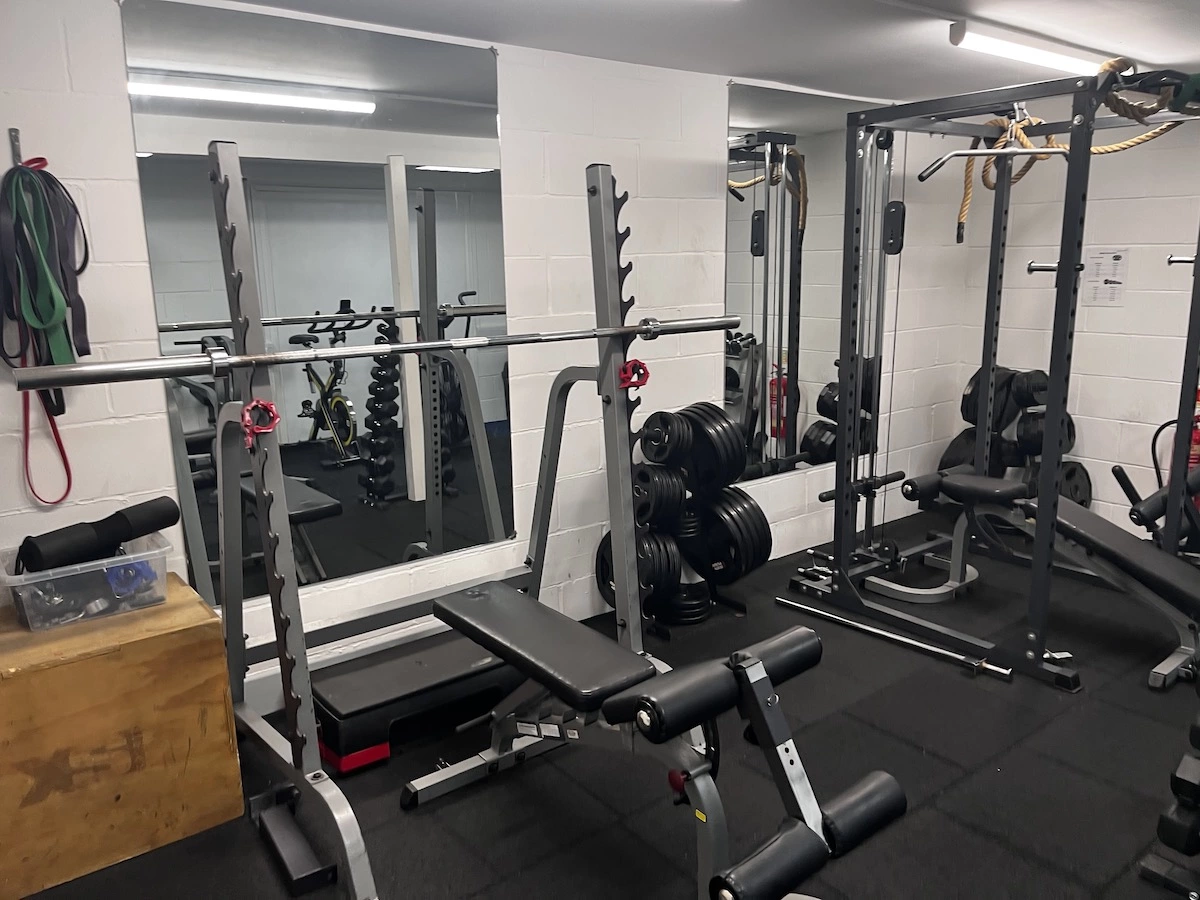
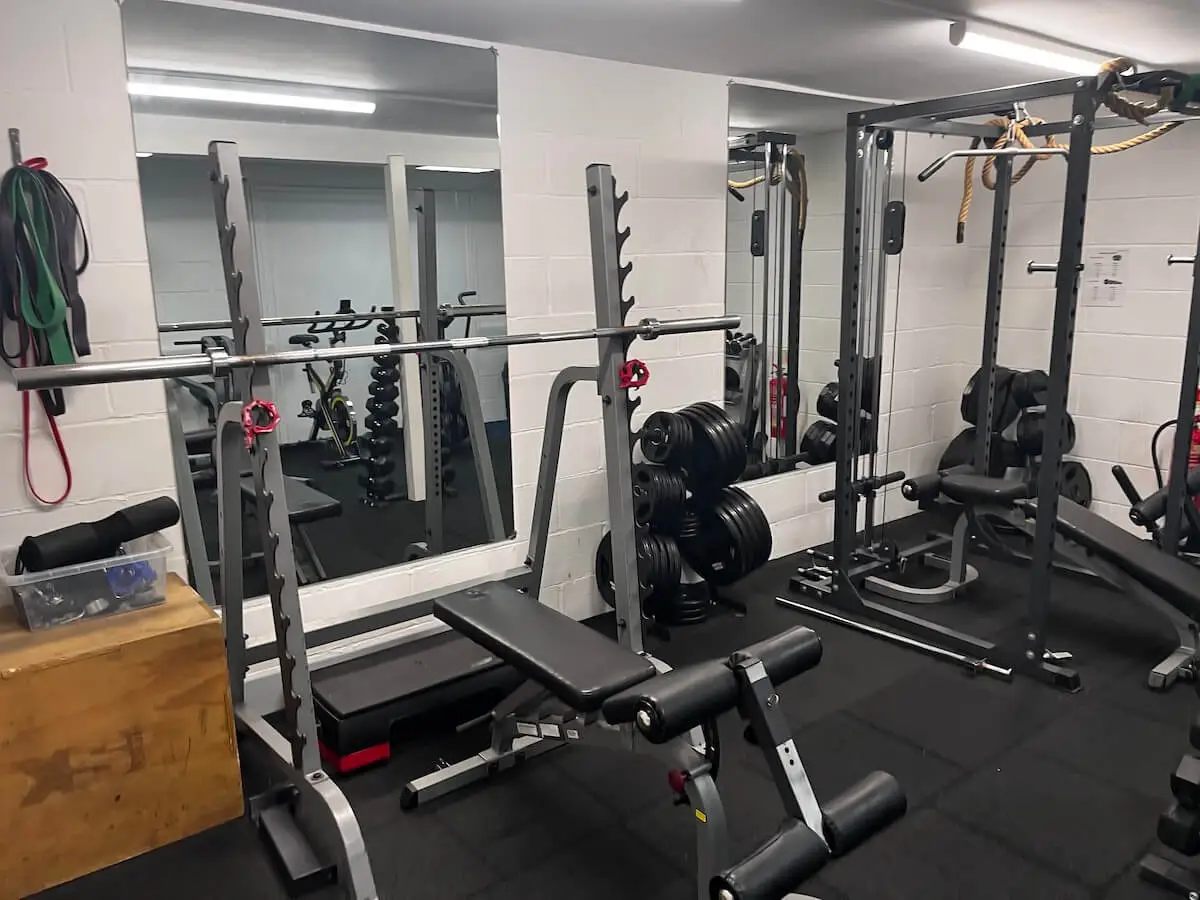
Optimised the images

Changed region(s): [[0.9867, 0.9956, 1.0, 1.0]]

diff --git a/gym.html b/gym.html
@@ -18,7 +18,7 @@
         <nav class="navbar navbar-expand-md navbar-light fixed-top shadow p-3 mb-4 bg-white">
           <div class="container-fluid no-padding">
             <!--The image used in the nav bar has been supplied by Balanced Training-->
-            <a class="navbar-brand" href="index.html"><img class="brand-logo" src="assets/images/logo_blue.png" alt="Balanced Training Logo"></a>
+            <a class="navbar-brand" href="index.html"><img class="brand-logo" src="assets/images/logo_blue.webp" alt="Balanced Training Logo"></a>
             <button class="navbar-toggler" type="button" data-bs-toggle="collapse" data-bs-target="#navbarNav" data-target="#navbarSupportedContent" aria-controls="navbarNav" aria-expanded="false" aria-label="Toggle navigation">
               <span class="navbar-toggler-icon"></span>
             </button>
@@ -79,7 +79,7 @@
           <h2 class="accordion-header" id="headingOne">
             <!--The image used has been supplied by Balanced Training-->
             <button class="accordion-button collapsed" type="button" data-bs-toggle="collapse" data-bs-target="#collapseOne" aria-expanded="false" aria-controls="collapseOne">
-               Personal Training <img class="icon" src="assets/images/pt-icon-small.png" alt="Personal training icon"> <i class="bi bi-chevron-down chev-down"></i> <i class="bi bi-chevron-up chev-up"></i>
+               Personal Training <img class="icon" src="assets/images/pt-icon-small.webp" alt="Personal training icon"> <i class="bi bi-chevron-down chev-down"></i> <i class="bi bi-chevron-up chev-up"></i>
             </button>
           </h2>
           <div id="collapseOne" class="accordion-collapse collapse" aria-labelledby="headingOne">
@@ -96,7 +96,7 @@
                   </div>
                   <div class="col-12 col-md-6">
                   <!--The image used has been supplied by Balanced Training-->
-                  <img class="acc-pt-pic" src="assets/images/gym-front.JPG" alt="Front of gym">
+                  <img class="acc-pt-pic" src="assets/images/gym-front.webp" alt="Front of gym">
                   </div>
                 </div>
                 <!--Tabs for PT-->
@@ -137,7 +137,7 @@
                       
                           <div class="col-11 col-md-5 align-items-center">
                             <!--The image used has been supplied by Balanced Training-->
-                            <img class="acc-tab-pic" src="assets/images/sarah-pt.jpg" alt="Sarah personal training">
+                            <img class="acc-tab-pic" src="assets/images/sarah-pt.webp" alt="Sarah personal training">
                           </div>
                         </div>
                     </div>
@@ -154,7 +154,7 @@
                           </div>
                           <div class="col-11 col-sm-5 no-padding">
                             <!--The image used has been supplied by Balanced Training-->
-                            <img class="acc-tab-pic" src="assets/images/outdoor-pt.jpg" alt="Outdoor training picture">
+                            <img class="acc-tab-pic" src="assets/images/outdoor-pt.webp" alt="Outdoor training picture">
                           </div>
                        </div>
                       </div>
@@ -170,7 +170,7 @@
                           </div>
                           <div class="col-11 col-sm-5 no-padding">
                             <!--The image used has been supplied by Balanced Training-->
-                            <img class="acc-tab-pic" src="assets/images/online-pt.png" alt="Online screenshot">
+                            <img class="acc-tab-pic" src="assets/images/online-pt.webp" alt="Online screenshot">
                           </div>
                        </div>
                       </div>
@@ -186,7 +186,7 @@
                           </div>
                           <div class="col-11 col-sm-5 no-padding">
                             <!--The image used has been supplied by Balanced Training-->
-                            <img class="acc-tab-pic" src="assets/images/tab-pic-prog.png" alt="Programme picture">
+                            <img class="acc-tab-pic" src="assets/images/tab-pic-prog.webp" alt="Programme picture">
                           </div>
                        </div>
                       </div>
@@ -204,7 +204,7 @@
           <h2 class="accordion-header" id="headingTwo">
             <!--The image used has been supplied by Balanced Training-->
             <button class="accordion-button collapsed" type="button" data-bs-toggle="collapse" data-bs-target="#collapseTwo" aria-expanded="false" aria-controls="collapseTwo">
-              Sports Massage  <img class="icon" src="assets/images/sm-icon-small.png" alt="Sports massage icon"> <i class="bi bi-chevron-down chev-down"></i> <i class="bi bi-chevron-up chev-up"></i>
+              Sports Massage  <img class="icon" src="assets/images/sm-icon-small.webp" alt="Sports massage icon"> <i class="bi bi-chevron-down chev-down"></i> <i class="bi bi-chevron-up chev-up"></i>
             </button>
           </h2>
           <div id="collapseTwo" class="accordion-collapse collapse" aria-labelledby="headingTwo">
@@ -225,7 +225,7 @@
                   </div>
                   <div class="col-12 col-md-6">
                     <!--The image used has been supplied by Balanced Training-->
-                    <img class="acc-pt-pic" src="assets/images/sarah-sm.jpeg" alt="Sarah delivering sports massage">
+                    <img class="acc-pt-pic" src="assets/images/sarah-sm.webp" alt="Sarah delivering sports massage">
                   </div>
                 </div>
               </div>
@@ -237,7 +237,7 @@
           <h2 class="accordion-header" id="headingThree">
             <!--The image used has been supplied by Balanced Training-->
             <button class="accordion-button collapsed" type="button" data-bs-toggle="collapse" data-bs-target="#collapseThree" aria-expanded="false" aria-controls="collapseThree">
-              Memberships <img class="icon" src="assets/images/gm-icon-small.png" alt="General membership icon"> <i class="bi bi-chevron-down chev-down"></i> <i class="bi bi-chevron-up chev-up"></i>
+              Memberships <img class="icon" src="assets/images/gm-icon-small.webp" alt="General membership icon"> <i class="bi bi-chevron-down chev-down"></i> <i class="bi bi-chevron-up chev-up"></i>
             </button>
           </h2>
           <div id="collapseThree" class="accordion-collapse collapse" aria-labelledby="headingThree">

diff --git a/courses.html b/courses.html
@@ -18,7 +18,7 @@
         <nav class="navbar navbar-expand-md navbar-light fixed-top shadow p-3 mb-4 bg-white">
           <div class="container-fluid no-padding">
             <!--The image used has been supplied by Balanced Training-->
-            <a class="navbar-brand" href="index.html"><img class="brand-logo" src="assets/images/logo_blue.png" alt="Balanced Training logo"></a>
+            <a class="navbar-brand" href="index.html"><img class="brand-logo" src="assets/images/logo_blue.webp" alt="Balanced Training logo"></a>
             <button class="navbar-toggler" type="button" data-bs-toggle="collapse" data-bs-target="#navbarNav" data-target="#navbarSupportedContent" aria-controls="navbarNav" aria-expanded="false" aria-label="Toggle navigation">
               <span class="navbar-toggler-icon"></span>
             </button>
@@ -79,7 +79,7 @@
           <h2 class="accordion-header" id="headingOne">
             <!--The image used has been supplied by Balanced Training-->
             <button class="accordion-button collapsed" type="button" data-bs-toggle="collapse" data-bs-target="#collapseOne" aria-expanded="false" aria-controls="collapseOne">
-              Personal Training Courses <img class="icon" src="assets/images/pt-icon-small.png" alt="Smaller Personal training icon">  <i class="bi bi-chevron-down chev-down"></i> <i class="bi bi-chevron-up chev-up"></i>
+              Personal Training Courses <img class="icon" src="assets/images/pt-icon-small.webp" alt="Smaller Personal training icon">  <i class="bi bi-chevron-down chev-down"></i> <i class="bi bi-chevron-up chev-up"></i>
             </button>
           </h2>
           <div id="collapseOne" class="accordion-collapse collapse" aria-labelledby="headingOne">
@@ -100,7 +100,7 @@
                   </div>
                   <div class="col-12 col-md-4">
                     <!--The image used has been supplied by Balanced Training-->
-                  <img class="acc-pt-pic" src="assets/images/pt-icon-cropped.png" alt="Cropped Personal training icon">
+                  <img class="acc-pt-pic" src="assets/images/pt-icon-cropped.webp" alt="Cropped Personal training icon">
                   </div>
                 </div>
                 <!--Tabs for PT Courses-->
@@ -193,7 +193,7 @@
           <h2 class="accordion-header" id="headingTwo">
             <!--The image used has been supplied by Balanced Training-->
             <button class="accordion-button collapsed" type="button" data-bs-toggle="collapse" data-bs-target="#collapseTwo" aria-expanded="false" aria-controls="collapseTwo">
-              Sports Massage Courses <img class="icon" src="assets/images/sm-icon-small.png" alt="Small Sports massage icon">  <i class="bi bi-chevron-down chev-down"></i> <i class="bi bi-chevron-up chev-up"></i>
+              Sports Massage Courses <img class="icon" src="assets/images/sm-icon-small.webp" alt="Small Sports massage icon">  <i class="bi bi-chevron-down chev-down"></i> <i class="bi bi-chevron-up chev-up"></i>
             </button>
           </h2>
           <div id="collapseTwo" class="accordion-collapse collapse" aria-labelledby="headingTwo">
@@ -215,7 +215,7 @@
                   </div>
                   <div class="col-12 col-md-6">
                     <!--The image used has been supplied by Balanced Training-->
-                    <img class="acc-pt-pic" src="assets/images/sm-icon-cropped.png" alt="Sports massage icon">
+                    <img class="acc-pt-pic" src="assets/images/sm-icon-cropped.webp" alt="Sports massage icon">
                   </div>
                 </div>
                 <div class="top-tabs">
@@ -272,7 +272,7 @@
           <h2 class="accordion-header" id="headingThree">
             <!--The image used has been supplied by Balanced Training-->
             <button class="accordion-button collapsed" type="button" data-bs-toggle="collapse" data-bs-target="#collapseThree" aria-expanded="false" aria-controls="collapseThree">
-              First Aid Courses <img class="icon" src="assets/images/first-aid-cropped.png" alt="First aid picture">  <i class="bi bi-chevron-down chev-down"></i> <i class="bi bi-chevron-up chev-up"></i>
+              First Aid Courses <img class="icon" src="assets/images/first-aid-cropped.webp" alt="First aid picture">  <i class="bi bi-chevron-down chev-down"></i> <i class="bi bi-chevron-up chev-up"></i>
             </button>
           </h2>
           <div id="collapseThree" class="accordion-collapse collapse" aria-labelledby="headingThree">
@@ -299,7 +299,7 @@
                   </div>
                   <div class="col-12 col-md-6">
                     <!--The image used has been supplied by Balanced Training-->
-                    <img class="acc-pt-pic" src="assets/images/first-aid-full.png" alt="Full First Aid picture">
+                    <img class="acc-pt-pic" src="assets/images/first-aid-full.webp" alt="Full First Aid picture">
                   </div>
                 </div>
                 </div>

diff --git a/contact.html b/contact.html
@@ -99,6 +99,7 @@
     <form id="form" class="form" action="https://codegreg1.github.io/milestone_1_greg_goodrem/thank-you.html">
       <div class="container-fluid">
         <div class="row">
+          <br>
           <h1 class="contact-top">Get in contact!</h1>
           <h2>If you'd like to find out more about <br> any of our services please fill out the form below.</h2>
         </div>
@@ -130,6 +131,39 @@
             </div>
     </form>
   </section>
+  <footer>
+    <div class="row footer bg-dark justify-content-center">
+      <!--Footer Left-->
+      <div class="col-6 col-md-7 footer-left">
+      <a id="footer-left" class="footer-left hover" href="https://maps.google.com/maps/dir//Balanced+Training+Unit+A3,+Seedbed+Business+Centre+Vanguard+Way+Southend-on-Sea+SS3+9QY/@51.534883,0.7957074,16z/data=!4m5!4m4!1m0!1m2!1m1!1s0x47d927b7c1b1e26d:0x8d658dbbe5f7866" target="_blank">
+        <p>Unit A3</p> 
+        <p class="word-wrap">Seedbed Business Centre,</p>
+        <p>Vanguard Way,</p>
+        <p>Shoeburyness,</p>
+        <p>SS3 0JB</p></a>
+        <br>
+        <p><i class="bi bi-telephone-fill"></i><a class="footer-left hover" href="Tel:01702382390"> 01702 382390</a></p>
+        
+
+      </div>
+      <!--Footer Right-->
+      <div class="col-5 col-md-4 footer-right">
+        <div class="footer-text-right col-6">Follow us on</div>
+        <div class="social-bottom row">
+          <div class="col-2 col-padding">
+            <a class="icon-link" href="https://facebook.com/BalancedPTS/" target="_blank" title="Link to Facebook">
+              <i class="bi bi-facebook icon-size"></i></a></div>
+          <div class="col-2">
+            <a class="icon-link" href="https://instagram.com/balanced_training" target="_blank" title="Link to Instagram">
+              <i class="bi bi-instagram icon-size"></i></a></div>
+          <div class="col-2">
+            <a class="icon-link" href="https://linkedin.com/company/balanced-training/" target="_blank" title="Link to Linked In">
+              <i class="bi bi-linkedin icon-size"></i></a></div>      
+        </div>
+      </div>
+    </div>
+  </footer>
+
   <script src="https://cdn.jsdelivr.net/npm/bootstrap@5.1.3/dist/js/bootstrap.bundle.min.js"
     integrity="sha384-ka7Sk0Gln4gmtz2MlQnikT1wXgYsOg+OMhuP+IlRH9sENBO0LRn5q+8nbTov4+1p"
     crossorigin="anonymous"></script>

diff --git a/thank-you.html b/thank-you.html
@@ -18,7 +18,7 @@
         <nav class="navbar navbar-expand-md navbar-light fixed-top shadow p-3 mb-4 bg-white">
           <div class="container-fluid no-padding">
 <!--The image used in the nav bar has been supplied by Balanced Training-->
-            <a class="navbar-brand" href="index.html"><img class="brand-logo" src="assets/images/logo_blue.png" alt="Balanced Training Logo"></a>
+            <a class="navbar-brand" href="index.html"><img class="brand-logo" src="assets/images/logo_blue.webp" alt="Balanced Training Logo"></a>
             <button class="navbar-toggler" type="button" data-bs-toggle="collapse" data-bs-target="#navbarNav" data-target="#navbarSupportedContent" aria-controls="navbarNav" aria-expanded="false" aria-label="Toggle navigation">
               <span class="navbar-toggler-icon"></span>
             </button>

diff --git a/index.html b/index.html
@@ -186,7 +186,7 @@
           </div>
           <div class="col-12 col-md-6 col-lg-4 shadow p-3 mb-5 bg-body rounded">
             <!--The image used has been supplied by Balanced Training-->
-            <img class="profilepic" src="assets/images/max_head.JPG" alt="Max profile pic">
+            <img class="profilepic" src="assets/images/max_head.webp" alt="Max profile pic">
             <h4>Maximus - Emotional Support</h4>
             <p>This little guy is an integral part of our team at Balanced Training and always brings a smile to 
               your face whenever he comes through the gym door carrying a ball. He usually likes to chill
